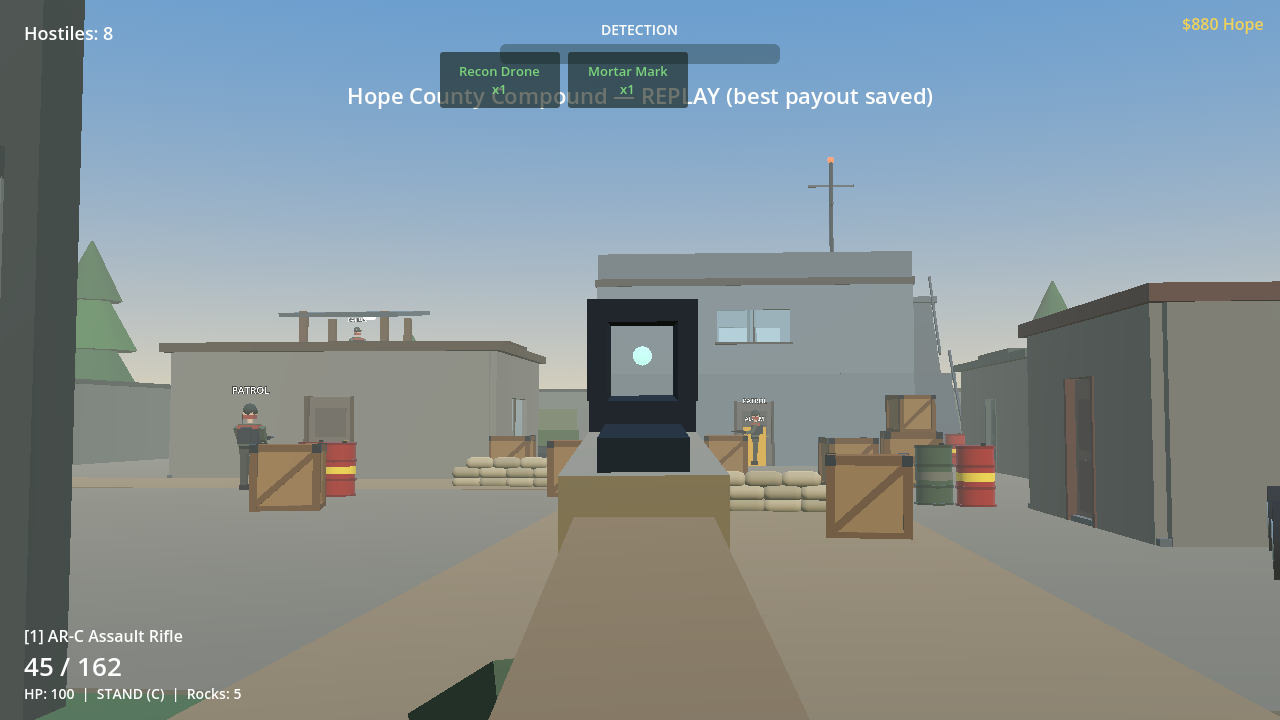
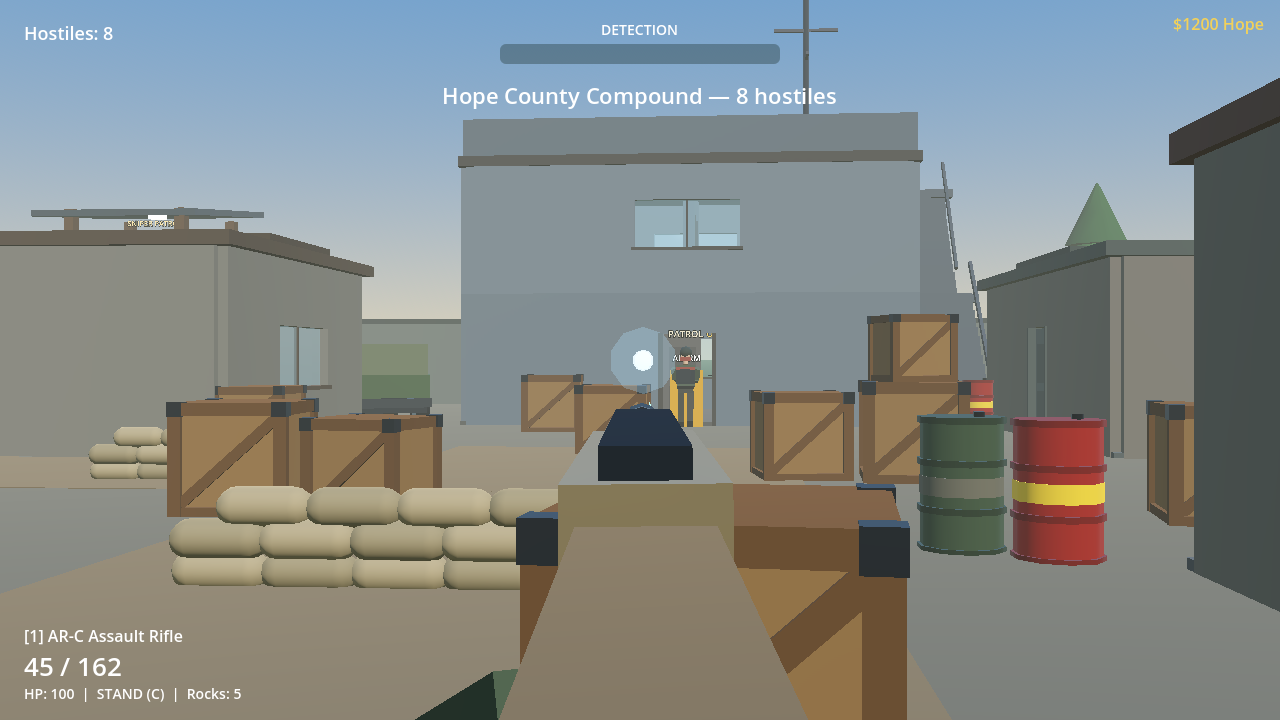
Fix black ADS optics and mobile fullscreen (quick fixes 1-2)
Open red-dot/holo hoods with transparent glass discs and fade
optic_occlude so the FOV stays clear under GL Compatibility/WebGL.
Add WebDisplay Fullscreen API (+webkit) with menu/HUD toggle,
landscape lock hints, and safe-area viewport meta for iOS/PWA.

diff --git a/docs/index.html b/docs/index.html
@@ -2,13 +2,24 @@
 <html lang="en">
 	<head>
 		<meta charset="utf-8">
-		<meta name="viewport" content="width=device-width, user-scalable=no, initial-scale=1.0">
+		<meta name="viewport" content="width=device-width, initial-scale=1.0, maximum-scale=1.0, user-scalable=no, viewport-fit=cover">
+		<meta name="apple-mobile-web-app-capable" content="yes">
+		<meta name="apple-mobile-web-app-status-bar-style" content="black-translucent">
+		<meta name="mobile-web-app-capable" content="yes">
 		<title>Outpost Liberation</title>
 		<style>
 html, body, #canvas {
 	margin: 0;
 	padding: 0;
 	border: 0;
+}
+
+html, body {
+	width: 100%;
+	height: 100%;
+	overflow: hidden;
+	overscroll-behavior: none;
+	-webkit-text-size-adjust: 100%;
 }
 
 body {
@@ -20,6 +31,14 @@ body {
 
 #canvas {
 	display: block;
+	width: 100vw !important;
+	height: 100vh !important;
+	max-width: 100vw;
+	max-height: 100vh;
+	position: fixed;
+	inset: 0;
+	box-sizing: border-box;
+	padding: env(safe-area-inset-top) env(safe-area-inset-right) env(safe-area-inset-bottom) env(safe-area-inset-left);
 }
 
 #canvas:focus {
